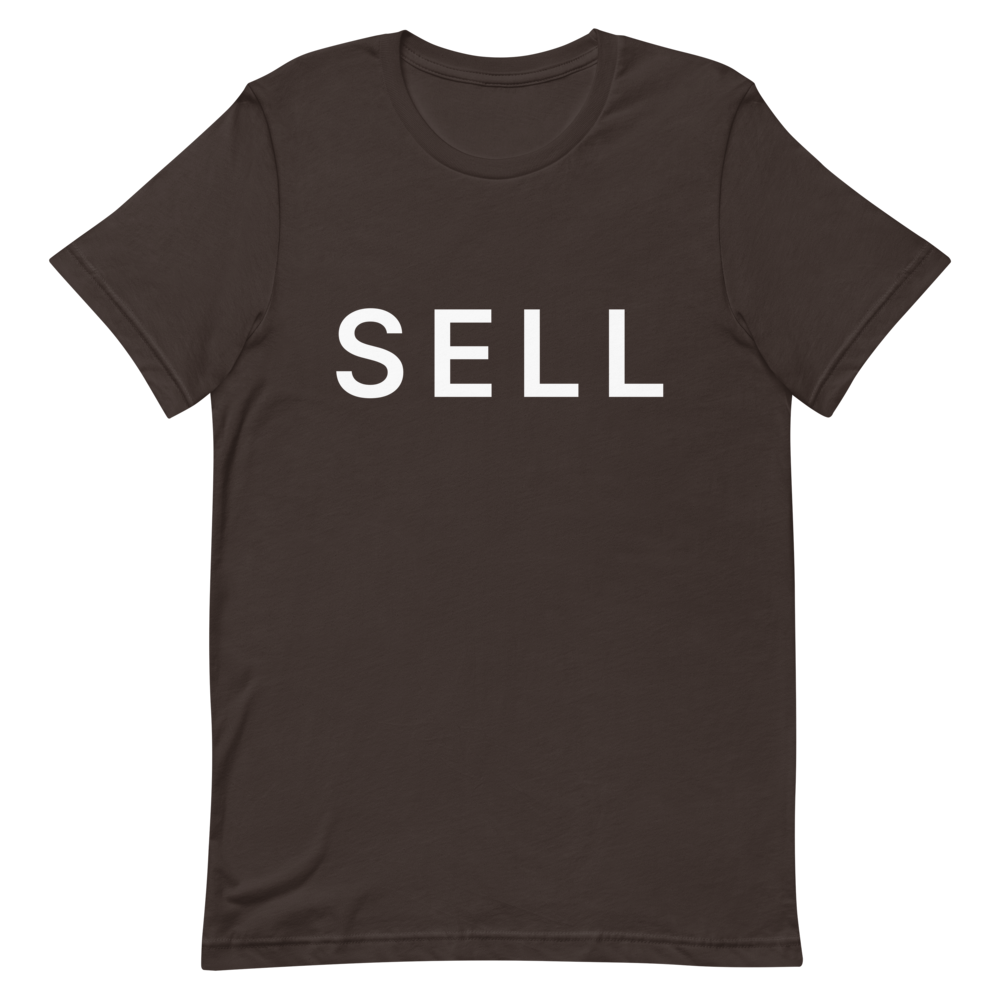
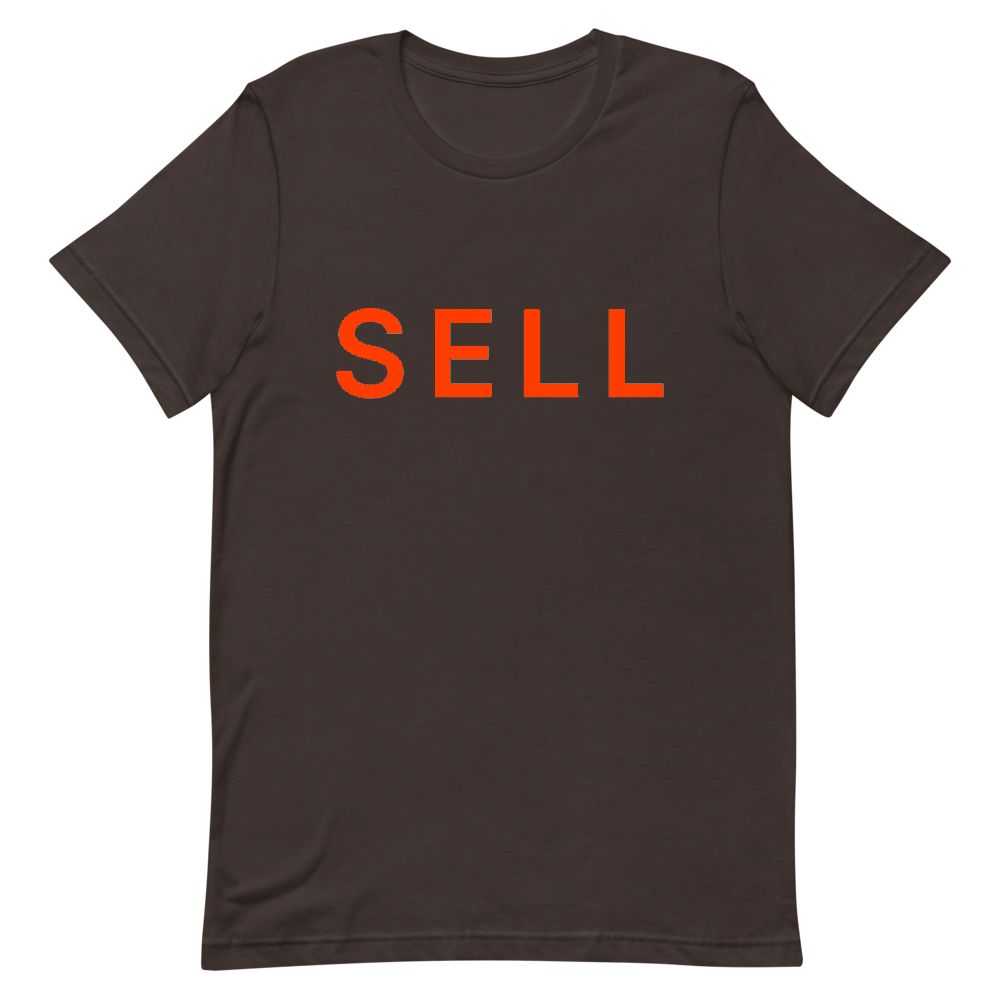
Print Browns tee lettering in orange

Changed region(s): [[0.527, 0.31, 0.682, 0.403], [0.434, 0.31, 0.496, 0.403], [0.341, 0.31, 0.403, 0.403]]

diff --git a/components/ProductPage.tsx b/components/ProductPage.tsx
@@ -73,8 +73,8 @@ export default function ProductPage({ slug, style }: { slug: string; style: Styl
   const related = [...sameCity, ...TEAMS.filter((t) => t.division === team.division && t.market !== team.market)].slice(0, 4);
   if (!stylesFor(team).includes(style)) notFound();
   const noun = STYLE[style].label.toLowerCase();
-  const printColor = team.slug === "nfl-cincinnati" && style === "tee" ? "black" : PRINT_COLOR[style];
-  const printInk = printColor === "black" ? "#000000" : STYLE[style].ink;
+  const printColor = team.slug === "nfl-cincinnati" && style === "tee" ? "black" : team.slug === "nfl-cleveland" && style === "tee" ? "orange" : PRINT_COLOR[style];
+  const printInk = printColor === "black" ? "#000000" : printColor === "orange" ? "#FF3C00" : STYLE[style].ink;
 
   return (
     <div className="wrap">
@@ -112,7 +112,7 @@ export default function ProductPage({ slug, style }: { slug: string; style: Styl
               <summary>Why SELL</summary>
               <div className="content">
                 Modeled on the shirt Oakland fans wore to the 2023 reverse boycott.{" "}
-                {WHY[style] ?? (team.slug === "nfl-cincinnati" && style === "tee" ? "One word in black on Bengals orange." : "One word in white on your team colors.")} It says what a lot of {team.market} fans are thinking &mdash; loud enough to be
+                {WHY[style] ?? (team.slug === "nfl-cincinnati" && style === "tee" ? "One word in black on Bengals orange." : team.slug === "nfl-cleveland" && style === "tee" ? "One word in orange on Browns brown." : "One word in white on your team colors.")} It says what a lot of {team.market} fans are thinking &mdash; loud enough to be
                 seen from the owner&rsquo;s suite. <Link href="/story" style={{ textDecoration: "underline" }}>Read the story.</Link>
               </div>
             </details>

diff --git a/app/api/print/[slug]/route.ts b/app/api/print/[slug]/route.ts
@@ -6,5 +6,6 @@ export async function GET(_req: Request, { params }: { params: Promise<{ slug: s
   const slug = (await params).slug.replace(/\.png$/, "");
   const team = getTeam(slug);
   if (!team) return new Response("Not found", { status: 404 });
-  return printFile("tee", undefined, slug === "nfl-cincinnati" ? "#000000" : undefined);
+  const ink = slug === "nfl-cincinnati" ? "#000000" : slug === "nfl-cleveland" ? "#FF3C00" : undefined;
+  return printFile("tee", undefined, ink);
 }

diff --git a/lib/art.ts b/lib/art.ts
@@ -1,4 +1,4 @@
 // Bump when the shirt artwork or photos change: Printful caches print files by
 // URL and next/image caches optimized photos by URL, so a new number makes
 // both fetch fresh copies.
-export const ART_VERSION = 15;
+export const ART_VERSION = 16;
